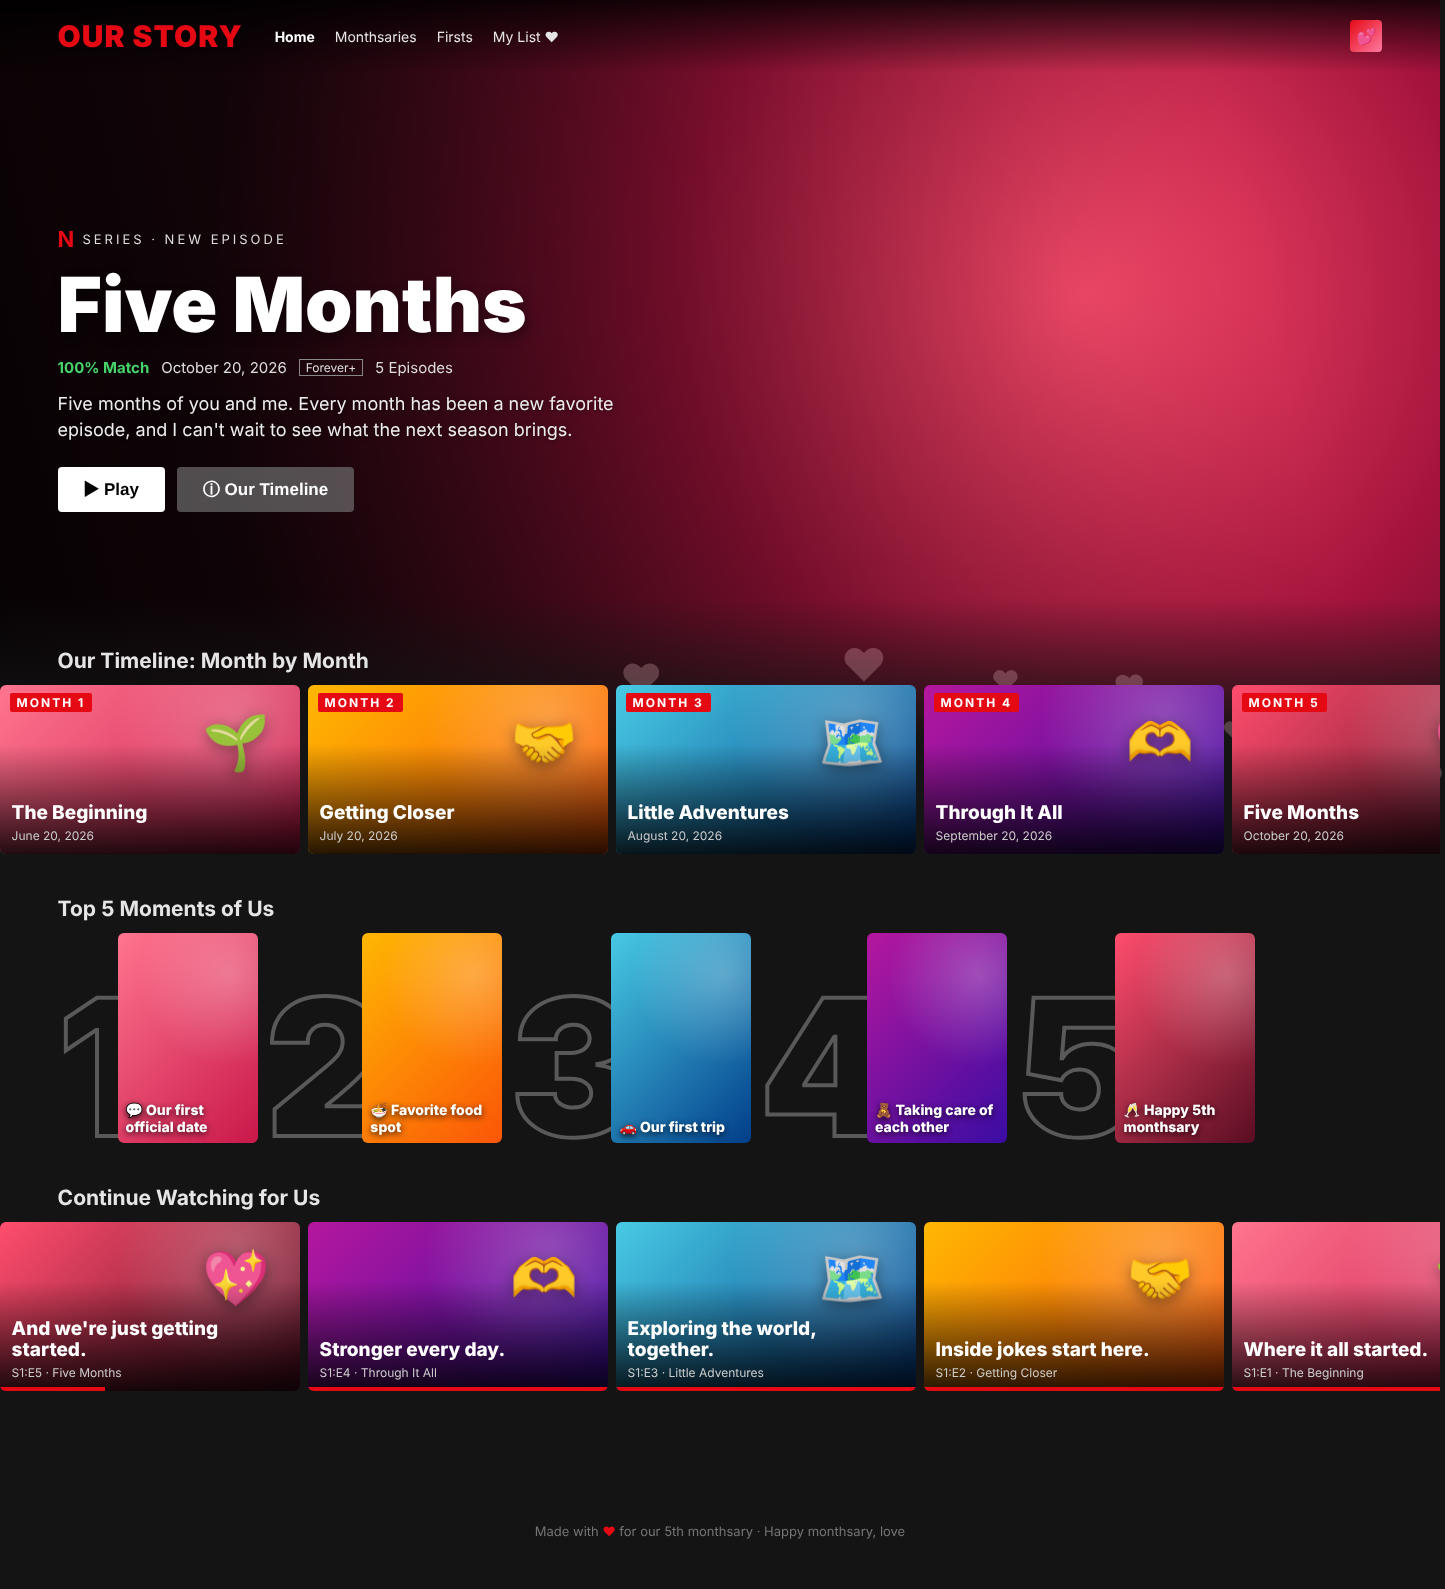
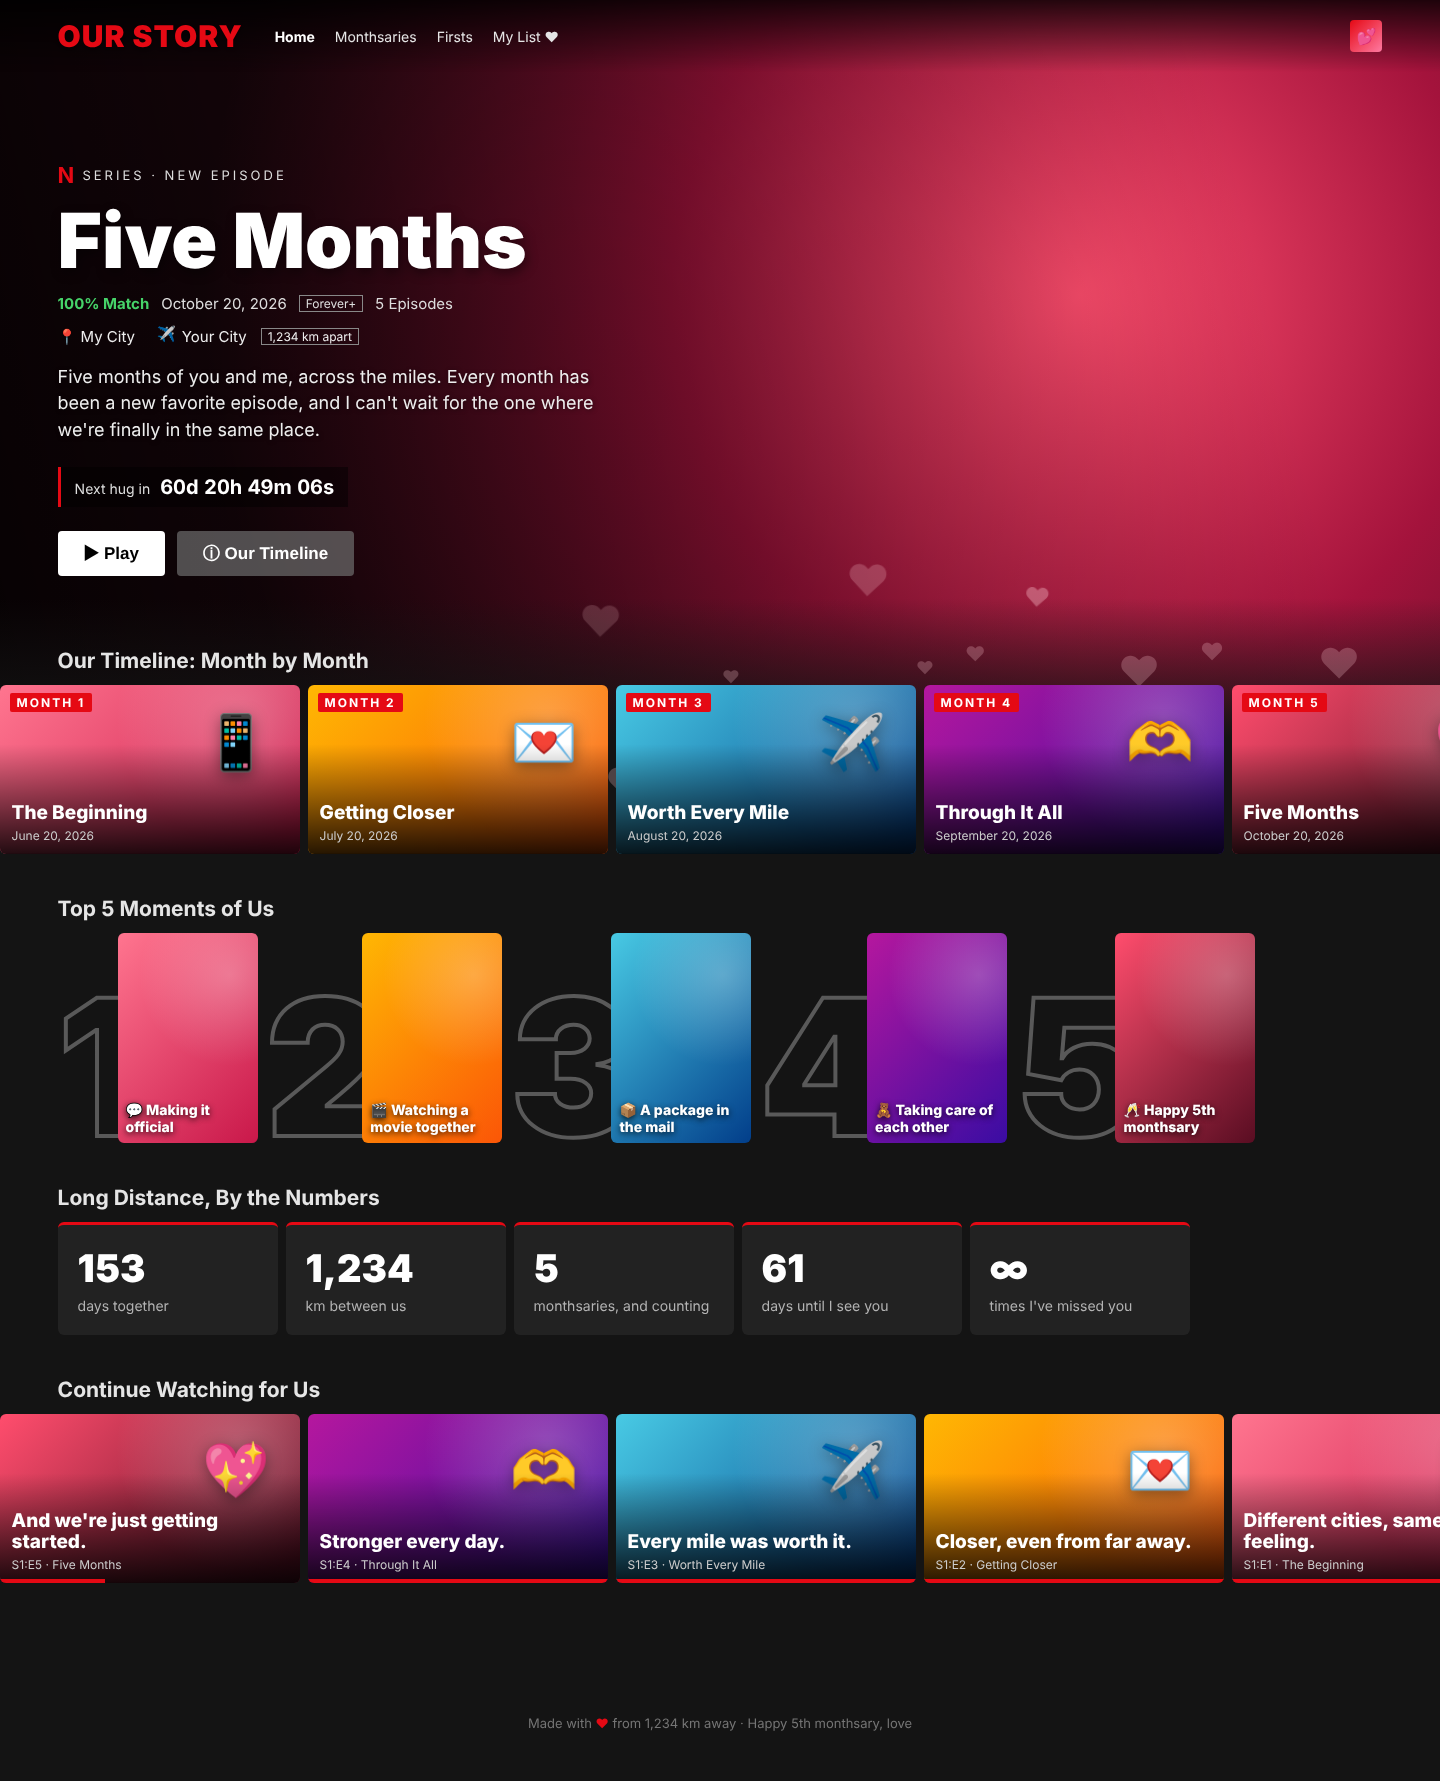
Make the site about a long-distance relationship
Adds the cities and distance apart, a countdown to the next visit, and a
long-distance stats row, and rewrites the month placeholders around LDR.

Claude-Session: https://claude.ai/code/session_01P7Acnuh5FKwyFuzHxcSE5r

diff --git a/index.html b/index.html
@@ -179,6 +179,25 @@
   .moment strong { display: block; margin-bottom: 4px; }
   .moment span { color: #aaa; font-size: 14px; }
 
+  .distance {
+    display: flex; flex-wrap: wrap; align-items: center; gap: 10px 14px;
+    font-size: 15px; color: #eee; margin-bottom: 18px;
+  }
+  .distance .plane { display: inline-block; animation: fly 3s ease-in-out infinite; }
+  @keyframes fly { 50% { transform: translateX(8px) translateY(-3px); } }
+  .countdown {
+    display: inline-flex; gap: 10px; align-items: baseline;
+    background: rgba(0,0,0,.45); border-left: 3px solid var(--red);
+    padding: 8px 14px; margin-bottom: 24px; font-size: 14px; color: #ddd;
+  }
+  .countdown b { font-size: 20px; color: #fff; font-variant-numeric: tabular-nums; }
+  .stat {
+    flex: 0 0 auto; width: 220px; padding: 20px; border-radius: var(--card-radius);
+    background: #222; border-top: 3px solid var(--red); scroll-snap-align: start;
+  }
+  .stat b { display: block; font-size: 38px; font-weight: 900; margin-bottom: 4px; }
+  .stat span { color: var(--muted); font-size: 14px; }
+
   footer { text-align: center; color: #757575; font-size: 13px; padding: 30px 4% 50px; }
   footer b { color: var(--red); }
 
@@ -218,7 +237,9 @@
       <span class="pill">Forever+</span>
       <span>5 Episodes</span>
     </div>
+    <div class="distance" id="hero-distance"></div>
     <p id="hero-desc"></p>
+    <div class="countdown" id="countdown"></div>
     <div class="btns">
       <button class="btn btn-play" onclick="openMonth(MONTHS.length - 1)">▶ Play</button>
       <button class="btn btn-info" onclick="document.getElementById('timeline').scrollIntoView({behavior:'smooth'})">ⓘ Our Timeline</button>
@@ -238,12 +259,17 @@
   </section>
 
   <section class="row">
+    <h2>Long Distance, By the Numbers</h2>
+    <div class="slider" id="row-stats"></div>
+  </section>
+
+  <section class="row">
     <h2>Continue Watching for Us</h2>
     <div class="slider" id="row-continue"></div>
   </section>
 </main>
 
-<footer>Made with <b>♥</b> for our 5th monthsary · Happy monthsary, love</footer>
+<footer>Made with <b>♥</b> from <span id="foot-distance"></span> away · Happy 5th monthsary, love</footer>
 
 <div class="modal-bg" id="modal-bg" onclick="if (event.target === this) closeModal()">
   <div class="modal" id="modal"></div>
@@ -257,42 +283,48 @@
   // ============================================================
   const START_DATE = "2026-05-20"; // the day you became official (YYYY-MM-DD)
 
+  // Long distance details
+  const MY_CITY = "My City";       // where you are
+  const YOUR_CITY = "Your City";   // where they are
+  const KM_APART = 1234;           // distance between you (km)
+  const NEXT_VISIT = "2026-12-20"; // next time you'll see each other (YYYY-MM-DD), or "" if not set yet
+
   const MONTHS = [
     {
       title: "The Beginning",
-      emoji: "🌱",
-      tagline: "Where it all started.",
-      story: "The first month of us — nervous texts, long calls, and realizing this was something special.",
+      emoji: "📱",
+      tagline: "Different cities, same feeling.",
+      story: "The first month of us: good-morning texts, goodnight calls, and realizing the distance didn't matter as much as we thought.",
       moments: [
-        ["💬", "Our first official date", "Write what happened here."],
-        ["📸", "First photo together", "The one we still look back on."],
-        ["🌙", "Late-night talks", "Talking until neither of us could keep our eyes open."]
+        ["💬", "Making it official", "Write how it happened here."],
+        ["📞", "Our first video call", "Neither of us wanted to hang up."],
+        ["🌙", "Falling asleep on call", "Still connected when we woke up."]
       ],
       colors: ["#ff758f", "#c9184a"],
       photo: ""
     },
     {
       title: "Getting Closer",
-      emoji: "🤝",
-      tagline: "Inside jokes start here.",
-      story: "Month two: learning each other's favorite things, quirks, and the little habits we fell for.",
+      emoji: "💌",
+      tagline: "Closer, even from far away.",
+      story: "Month two: learning each other's routines and time zones, and finding little ways to feel close.",
       moments: [
-        ["🍜", "Favorite food spot", "Where we keep going back."],
+        ["🎬", "Watching a movie together", "Pressed play at the same time, from two different places."],
         ["😂", "First inside joke", "Nobody else gets it, and that's the point."],
-        ["🎬", "Movie marathon", "We picked the movies; we didn't really watch them."]
+        ["🍜", "Virtual dinner date", "Same food, two tables, one call."]
       ],
       colors: ["#ffb703", "#fb5607"],
       photo: ""
     },
     {
-      title: "Little Adventures",
-      emoji: "🗺",
-      tagline: "Exploring the world, together.",
-      story: "Month three: new places, spontaneous plans, and making memories wherever we went.",
+      title: "Worth Every Mile",
+      emoji: "✈",
+      tagline: "Every mile was worth it.",
+      story: "Month three: counting down the days, making plans, and dreaming about the next time we're in the same place.",
       moments: [
-        ["🚗", "Our first trip", "Where did we go? Add it here."],
-        ["🌅", "That sunset", "You know the one."],
-        ["🎵", "Our song", "The song that's ours now."]
+        ["📦", "A package in the mail", "A surprise from far away."],
+        ["🗓", "Planning a visit", "Counting down the days."],
+        ["🎵", "Our song", "The song that plays when I miss you."]
       ],
       colors: ["#48cae4", "#023e8a"],
       photo: ""
@@ -301,11 +333,11 @@
       title: "Through It All",
       emoji: "🫶",
       tagline: "Stronger every day.",
-      story: "Month four: the good days and the hard ones. Learning that we're a team either way.",
+      story: "Month four: the good days and the hard ones, the missing-you nights. Learning that we're a team, no matter the distance.",
       moments: [
-        ["🧸", "Taking care of each other", "Being there when it counted."],
+        ["🧸", "Taking care of each other", "Being there, even through a screen."],
         ["🎁", "A surprise", "The sweetest thing you did."],
-        ["🏡", "Comfort", "Feeling at home with you."]
+        ["🏡", "Home", "Home is a person, not a place."]
       ],
       colors: ["#b5179e", "#3a0ca3"],
       photo: ""
@@ -314,11 +346,11 @@
       title: "Five Months",
       emoji: "💖",
       tagline: "And we're just getting started.",
-      story: "Five months of you and me. Every month has been a new favorite episode, and I can't wait to see what the next season brings.",
+      story: "Five months of you and me, across the miles. Every month has been a new favorite episode, and I can't wait for the one where we're finally in the same place.",
       moments: [
         ["🥂", "Happy 5th monthsary", "Today's episode."],
         ["✨", "What I love most", "Write your favorite thing about them here."],
-        ["🔮", "What's next", "Plans, dreams, and the next 5 months."]
+        ["🤗", "Next time I see you", "The hug I've been saving up."]
       ],
       colors: ["#ff4d6d", "#590d22"],
       photo: ""
@@ -340,6 +372,35 @@
   document.getElementById("hero-desc").textContent = latest.story;
   if (latest.photo) document.getElementById("hero").style.setProperty("--hero-bg", `url("${latest.photo}")`);
 
+  const km = KM_APART.toLocaleString() + " km";
+  document.getElementById("hero-distance").innerHTML =
+    `📍 ${MY_CITY} <span class="plane">✈</span> ${YOUR_CITY} <span class="pill">${km} apart</span>`;
+  document.getElementById("foot-distance").textContent = km;
+
+  const visit = NEXT_VISIT ? new Date(NEXT_VISIT + "T00:00:00") : null;
+  const countdown = document.getElementById("countdown");
+  function tick() {
+    if (!visit) { countdown.innerHTML = "Next visit: <b>coming soon</b>"; return; }
+    const ms = visit - new Date();
+    if (ms <= 0) { countdown.innerHTML = "<b>Together right now 🤗</b>"; return; }
+    const d = Math.floor(ms / 864e5), h = Math.floor(ms / 36e5) % 24,
+          m = Math.floor(ms / 6e4) % 60, sec = Math.floor(ms / 1e3) % 60;
+    const p = n => String(n).padStart(2, "0");
+    countdown.innerHTML = `Next hug in <b>${d}d ${p(h)}h ${p(m)}m ${p(sec)}s</b>`;
+  }
+  tick(); setInterval(tick, 1000);
+
+  const daysTogether = Math.floor((new Date() - start) / 864e5);
+  const stats = [
+    [daysTogether.toLocaleString(), "days together"],
+    [KM_APART.toLocaleString(), "km between us"],
+    [MONTHS.length, "monthsaries, and counting"],
+    [visit ? Math.max(0, Math.ceil((visit - new Date()) / 864e5)) : "?", "days until I see you"],
+    ["∞", "times I've missed you"]
+  ];
+  document.getElementById("row-stats").innerHTML =
+    stats.map(([n, l]) => `<div class="stat"><b>${n}</b><span>${l}</span></div>`).join("");
+
   // Timeline row
   document.getElementById("row-timeline").innerHTML = MONTHS.map((m, i) => `
     <div class="card" style="--poster:${poster(m)}" onclick="openMonth(${i})">
@@ -349,9 +410,9 @@
       <div class="info"><h3>${m.title}</h3><small>${fmt(monthDate(i))}</small></div>
     </div>`).join("") + `
     <div class="card soon" style="--poster:linear-gradient(135deg,#333,#111)">
-      <div class="emoji">🔒</div><div class="shade"></div>
-      <div class="num">MONTH ${MONTHS.length + 1}</div>
-      <div class="info"><h3>Coming Soon</h3><small>${fmt(monthDate(MONTHS.length))}</small></div>
+      <div class="emoji">✈</div><div class="shade"></div>
+      <div class="num">COMING SOON</div>
+      <div class="info"><h3>${visit ? "Next Visit" : "Month " + (MONTHS.length + 1)}</h3><small>${fmt(visit || monthDate(MONTHS.length))}</small></div>
     </div>`;
 
   // Top 5 ranked row: one highlight moment per month
